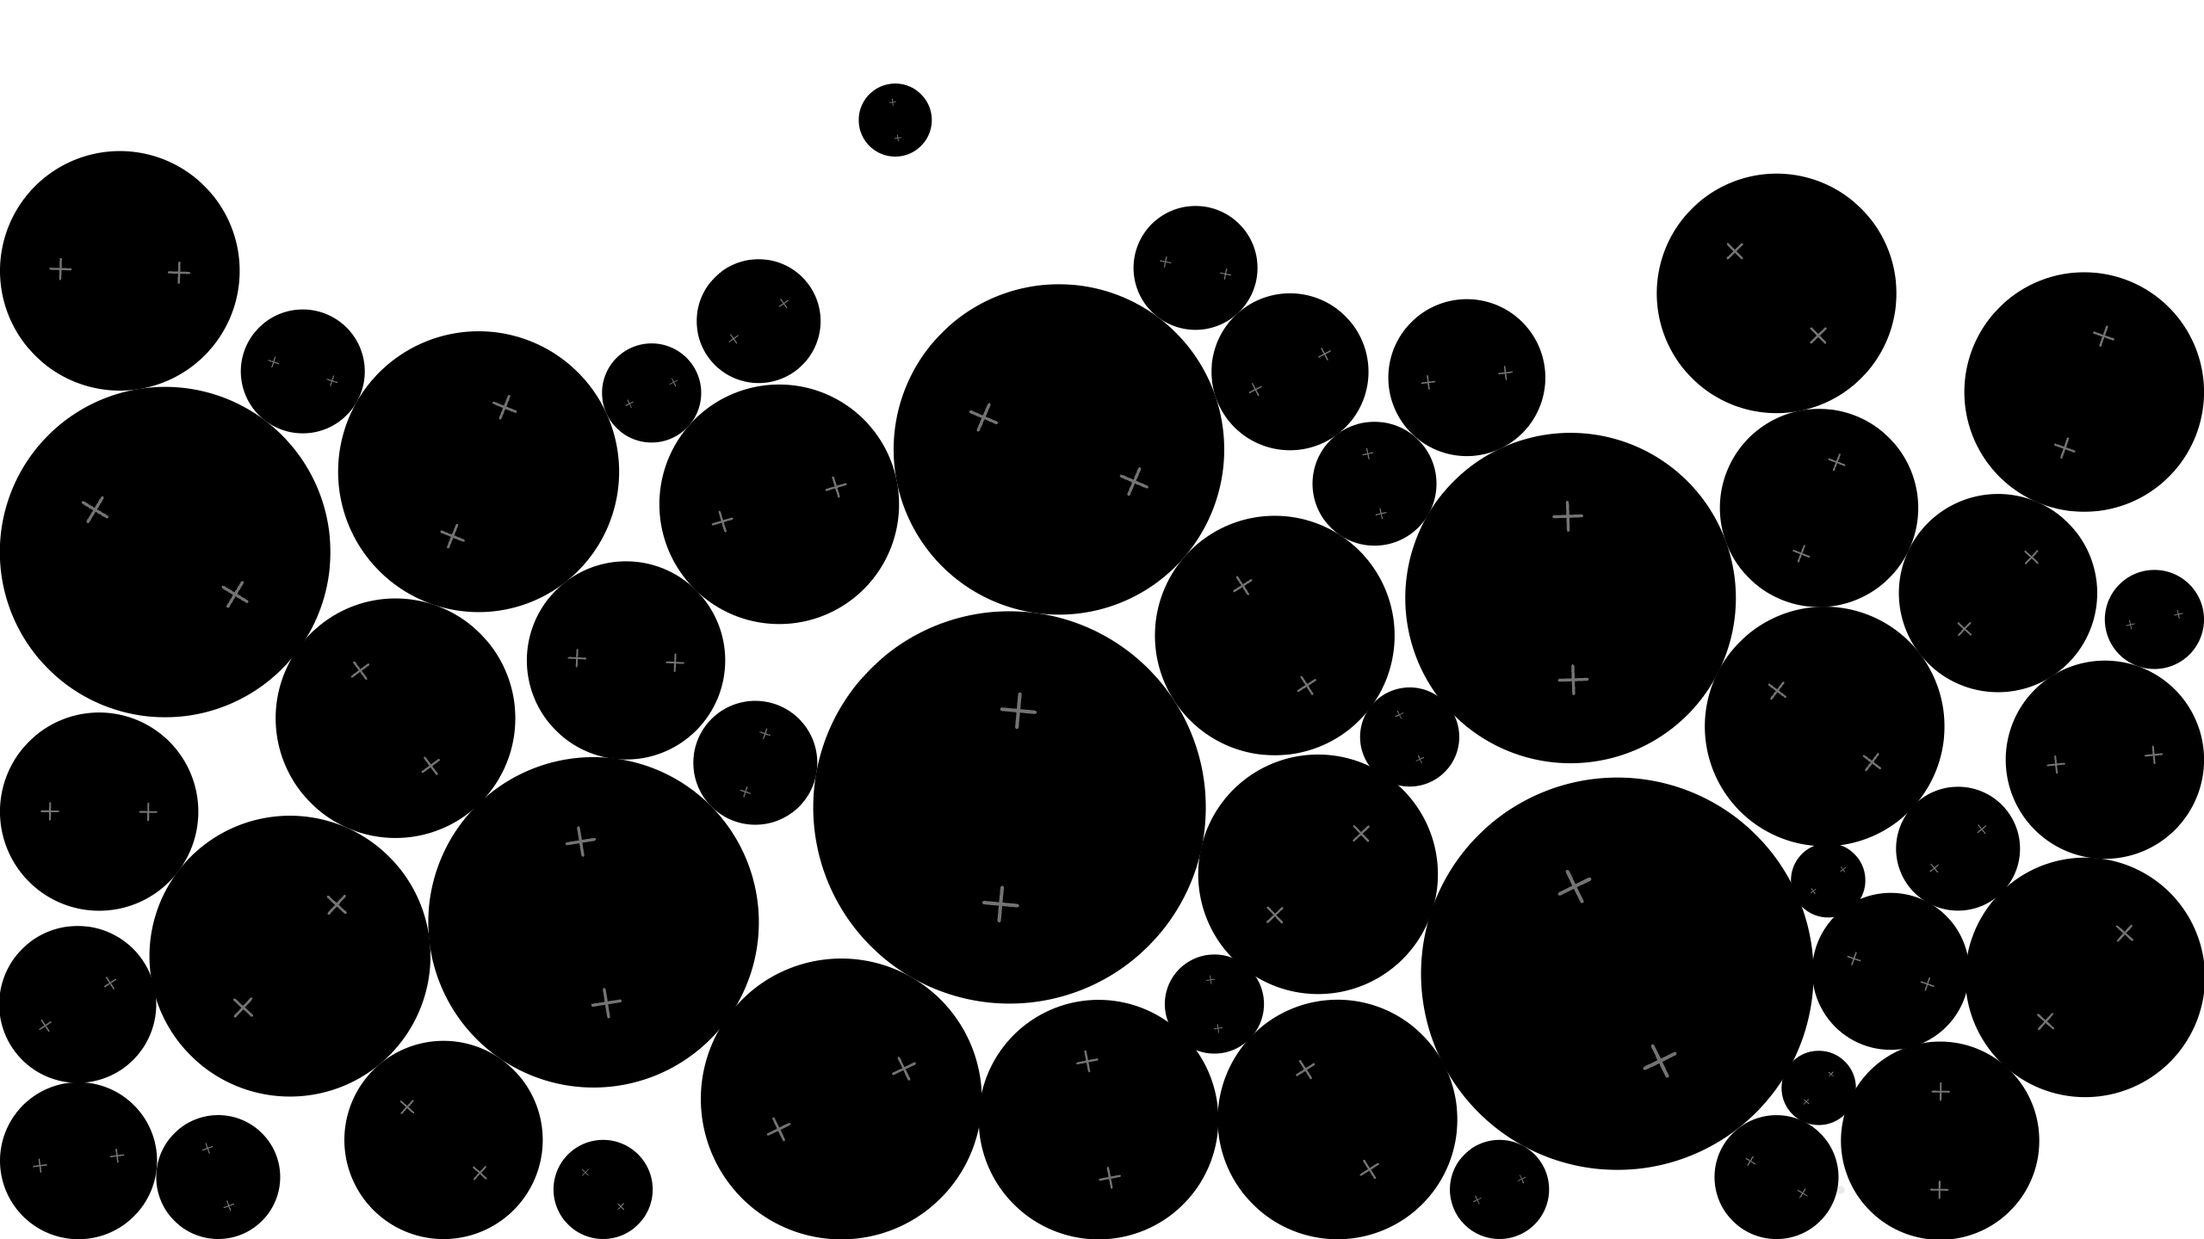
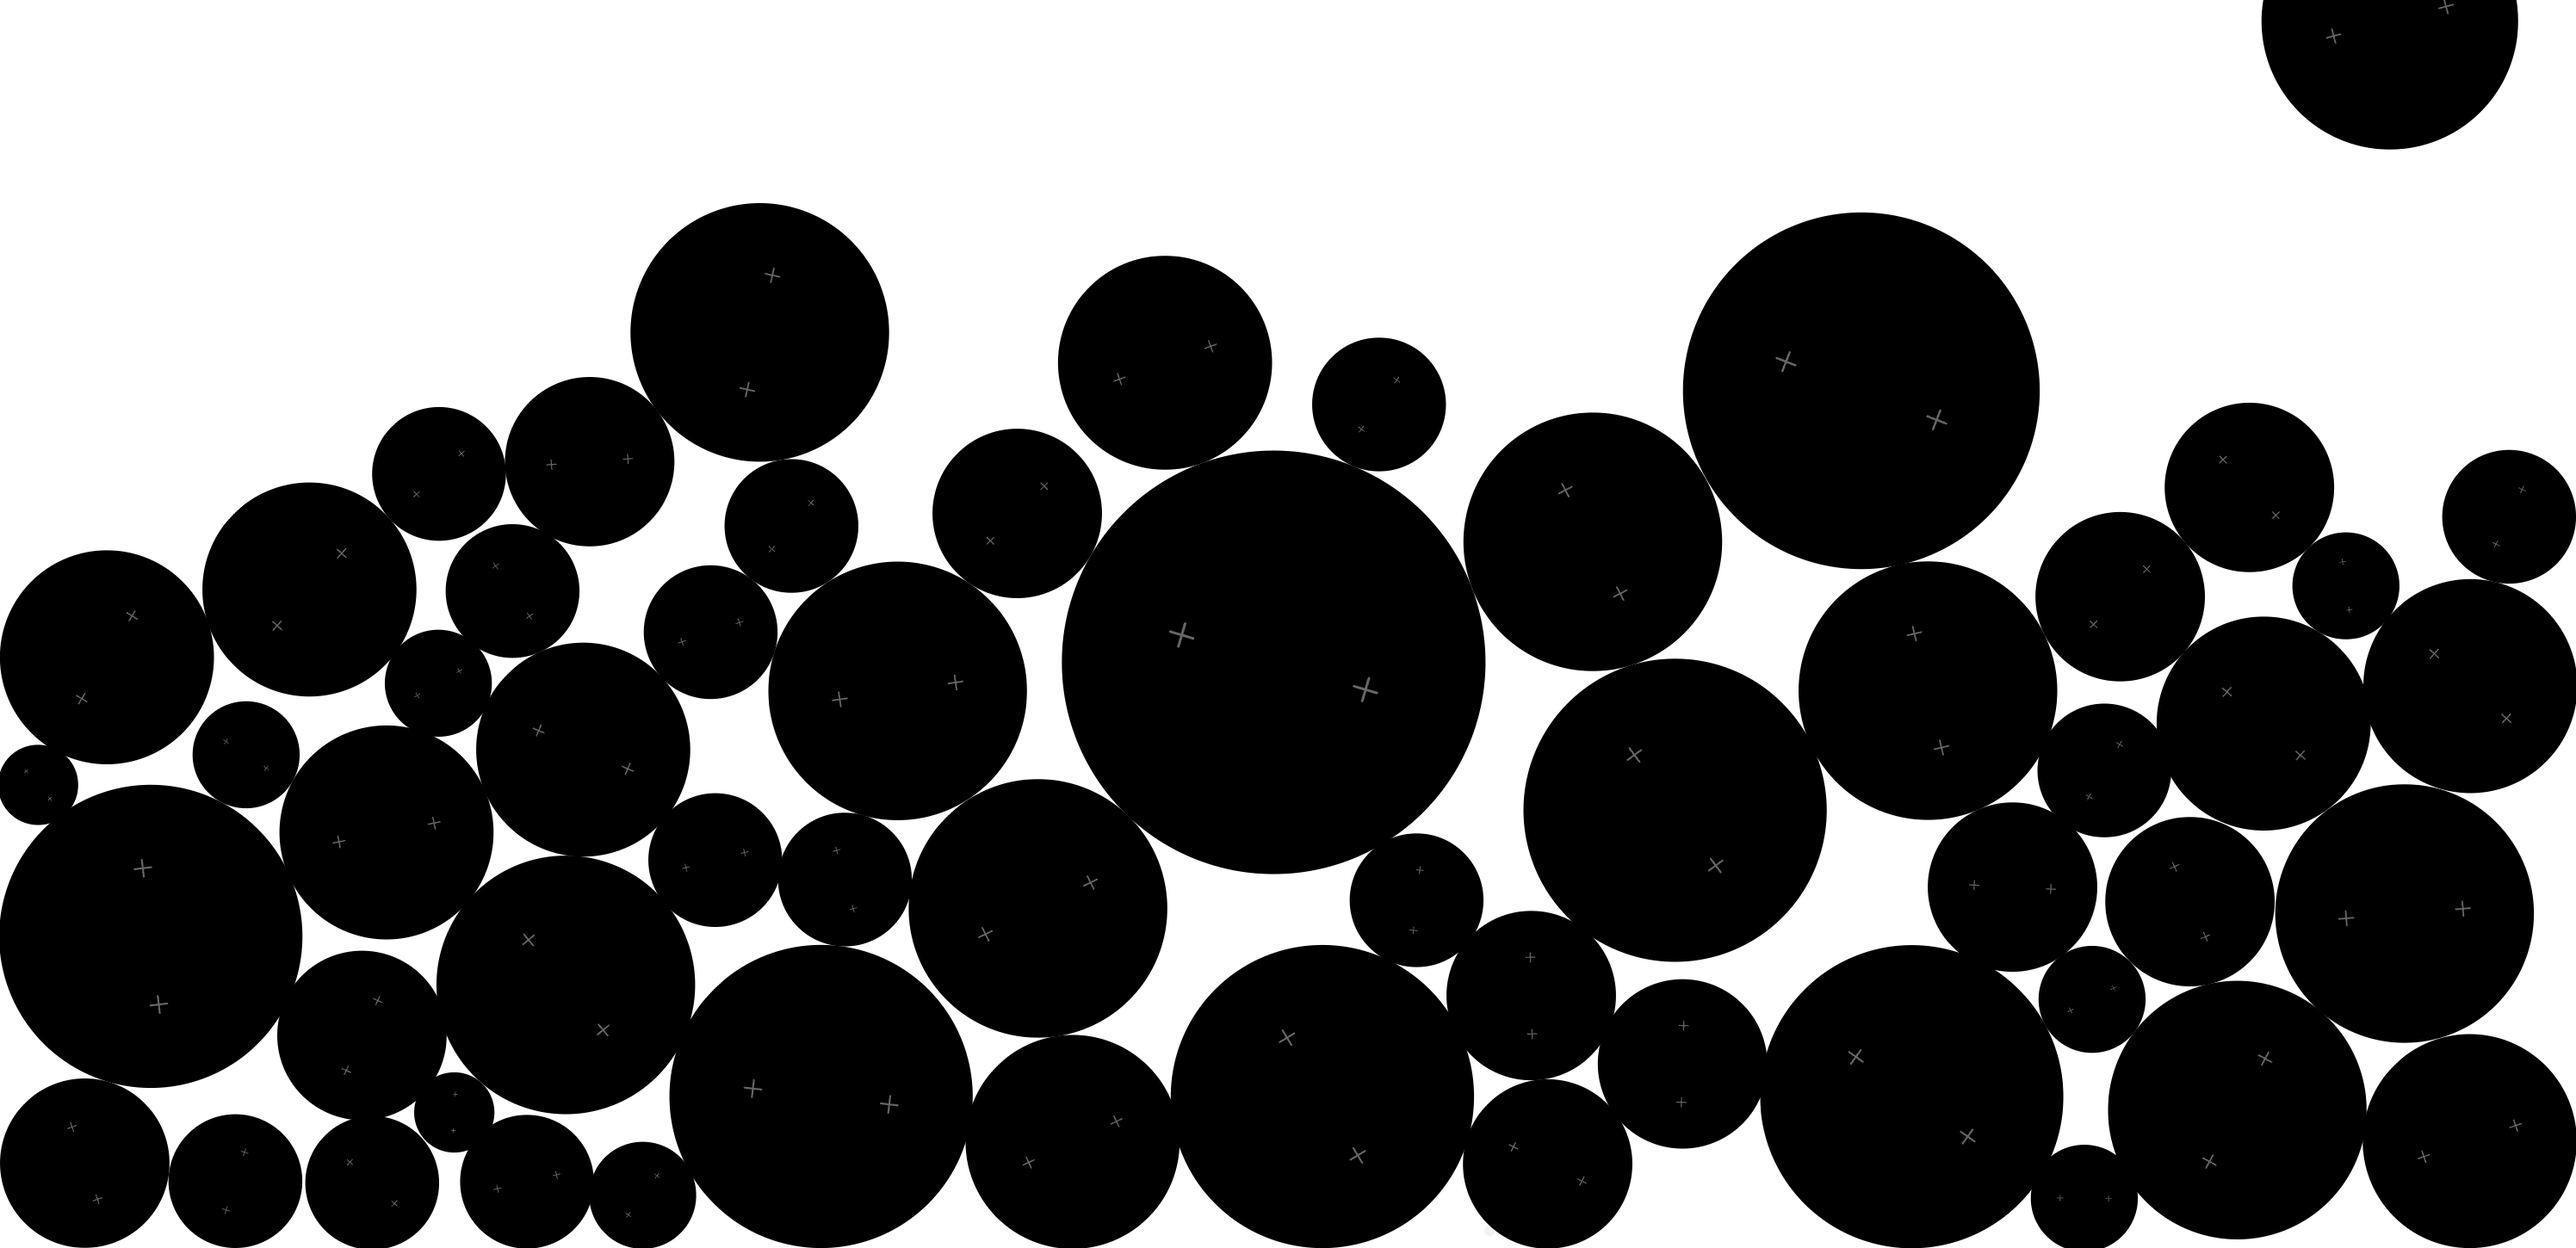
Add color palettes, removal sound effect, and smaller crosses
- 10 curated color palettes (Mono, Tokyo, Forest, Sunset, Ocean, Earth,
  Berry, Charcoal, Bauhaus, Neon) with coordinated bg/circle/cross colors
- Palette selector UI at bottom of screen
- Web Audio API sine ping on circle removal (pitch varies by size)
- Even smaller cross marks for refined aesthetic
- Canvas renders with palette background color (solid screenshots)
- Updated README with new features and screenshot

diff --git a/app.js b/app.js
@@ -1,5 +1,5 @@
 // Jampack - yugop tribute
-// 2D physics with circles, dual cross rotation indicators, drag & drop, shrink-remove
+// 2D physics with circles, color schemes, sound, drag & drop, shrink-remove
 
 const canvas = document.getElementById('c');
 const ctx = canvas.getContext('2d');
@@ -28,6 +28,96 @@ function updateMaxCircles() {
 resize();
 window.addEventListener('resize', resize);
 
+// --- Color palettes ---
+const PALETTES = [
+  { name: 'Mono',       bg: '#ffffff', colors: ['#000000'],                                                  cross: 'rgba(255,255,255,0.4)' },
+  { name: 'Tokyo',      bg: '#f5f0eb', colors: ['#1a1a2e', '#16213e', '#0f3460', '#533483', '#e94560'],      cross: 'rgba(255,255,255,0.35)' },
+  { name: 'Forest',     bg: '#f7f7f2', colors: ['#1b4332', '#2d6a4f', '#40916c', '#52b788', '#74c69d'],      cross: 'rgba(255,255,255,0.35)' },
+  { name: 'Sunset',     bg: '#fff8f0', colors: ['#d62828', '#f77f00', '#fcbf49', '#003049', '#264653'],      cross: 'rgba(255,255,255,0.4)' },
+  { name: 'Ocean',      bg: '#f0f4f8', colors: ['#023e8a', '#0077b6', '#0096c7', '#00b4d8', '#48cae4'],      cross: 'rgba(255,255,255,0.35)' },
+  { name: 'Earth',      bg: '#faf6f1', colors: ['#582f0e', '#7f4f24', '#936639', '#a68a64', '#b6ad90'],      cross: 'rgba(255,255,255,0.35)' },
+  { name: 'Berry',      bg: '#fdf2f8', colors: ['#4a0e4e', '#812b91', '#c74bab', '#e879a8', '#f5a3c7'],      cross: 'rgba(255,255,255,0.35)' },
+  { name: 'Charcoal',   bg: '#f8f9fa', colors: ['#212529', '#343a40', '#495057', '#6c757d', '#adb5bd'],      cross: 'rgba(255,255,255,0.4)' },
+  { name: 'Bauhaus',    bg: '#f5f1eb', colors: ['#d32f2f', '#1565c0', '#fbc02d', '#212121', '#e0e0e0'],      cross: 'rgba(255,255,255,0.4)' },
+  { name: 'Neon',       bg: '#0a0a0a', colors: ['#ff006e', '#fb5607', '#ffbe0b', '#8338ec', '#3a86ff'],      cross: 'rgba(0,0,0,0.4)' },
+];
+
+let currentPalette = 0;
+
+function getPalette() {
+  return PALETTES[currentPalette];
+}
+
+function randomColor() {
+  const p = getPalette();
+  return p.colors[Math.floor(Math.random() * p.colors.length)];
+}
+
+// --- Palette selector UI ---
+const selectorEl = document.getElementById('palette-selector');
+
+function buildPaletteUI() {
+  selectorEl.innerHTML = '';
+  PALETTES.forEach((p, i) => {
+    const btn = document.createElement('button');
+    btn.className = 'palette-btn' + (i === currentPalette ? ' active' : '');
+    btn.title = p.name;
+    // show color dots
+    p.colors.slice(0, 5).forEach(c => {
+      const dot = document.createElement('span');
+      dot.className = 'dot';
+      dot.style.background = c;
+      btn.appendChild(dot);
+    });
+    btn.addEventListener('click', () => {
+      currentPalette = i;
+      document.body.style.background = p.bg;
+      // recolor existing circles
+      for (const c of circles) {
+        c.color = randomColor();
+      }
+      buildPaletteUI();
+    });
+    selectorEl.appendChild(btn);
+  });
+}
+buildPaletteUI();
+document.body.style.background = getPalette().bg;
+
+// --- Audio: removal ping ---
+let audioCtx = null;
+
+function initAudio() {
+  if (audioCtx) return;
+  audioCtx = new (window.AudioContext || window.webkitAudioContext)();
+}
+
+function playRemoveSound(radius) {
+  if (!audioCtx) return;
+  // clean short ping, pitch varies with circle size
+  const now = audioCtx.currentTime;
+  const baseFreq = 1800 + (1 - radius / 120) * 1200; // higher register
+
+  const osc = audioCtx.createOscillator();
+  const gain = audioCtx.createGain();
+
+  osc.type = 'sine';
+  osc.frequency.setValueAtTime(baseFreq, now);
+  osc.frequency.exponentialRampToValueAtTime(baseFreq * 0.7, now + 0.12);
+
+  gain.gain.setValueAtTime(0.1, now);
+  gain.gain.exponentialRampToValueAtTime(0.001, now + 0.15);
+
+  osc.connect(gain);
+  gain.connect(audioCtx.destination);
+
+  osc.start(now);
+  osc.stop(now + 0.2);
+}
+
+// init audio on first interaction
+canvas.addEventListener('pointerdown', () => { initAudio(); }, { once: true });
+
 // --- Physics constants ---
 const GRAVITY = 900;
 const BOUNCE = 0.45;
@@ -42,12 +132,14 @@ class Circle {
     this.x = x;
     this.y = y;
     this.r = r;
+    this.color = randomColor();
     this.vx = (Math.random() - 0.5) * 30;
     this.vy = 0;
     this.angle = Math.random() * Math.PI * 2;
     this.angularVel = 0;
     this.mass = r * r;
     this.removing = false;
+    this.soundPlayed = false;
     this.dragging = false;
     this.scale = 0.01;
     this.opacity = 1;
@@ -55,6 +147,10 @@ class Circle {
 
   update(dt) {
     if (this.removing) {
+      if (!this.soundPlayed) {
+        this.soundPlayed = true;
+        playRemoveSound(this.r);
+      }
       this.scale += (0 - this.scale) * 5 * dt;
       this.opacity += (0 - this.opacity) * 5 * dt;
       return this.scale < 0.02;
@@ -114,15 +210,15 @@ class Circle {
     // circle body
     ctx.beginPath();
     ctx.arc(0, 0, r, 0, Math.PI * 2);
-    ctx.fillStyle = '#000';
+    ctx.fillStyle = this.color;
     ctx.fill();
 
     // two tiny crosses, symmetrically placed
     ctx.rotate(this.angle);
-    const crossSize = r * 0.06;
-    const offset = r * 0.35;
-    ctx.strokeStyle = 'rgba(255,255,255,0.45)';
-    ctx.lineWidth = Math.max(0.5, r * 0.018);
+    const crossSize = r * 0.04;
+    const offset = r * 0.32;
+    ctx.strokeStyle = getPalette().cross;
+    ctx.lineWidth = Math.max(0.4, r * 0.012);
     ctx.lineCap = 'round';
 
     // cross 1 (upper-left)
@@ -154,7 +250,6 @@ class Circle {
 // --- Circle-circle collision ---
 function resolveCollision(a, b) {
   if (a.dragging || b.dragging) {
-    // dragged circle pushes others but isn't pushed back
     const dx = b.x - a.x;
     const dy = b.y - a.y;
     const dist = Math.sqrt(dx * dx + dy * dy);
@@ -170,7 +265,6 @@ function resolveCollision(a, b) {
       if (a.dragging) {
         b.x += nx * overlap;
         b.y += ny * overlap;
-        // give velocity based on drag movement
         b.vx += nx * overlap * 8;
         b.vy += ny * overlap * 8;
         b.angularVel += (nx * b.vy - ny * b.vx) * 0.003;
@@ -179,7 +273,7 @@ function resolveCollision(a, b) {
         a.y -= ny * overlap;
         a.vx -= nx * overlap * 8;
         a.vy -= ny * overlap * 8;
-        a.angularVel -= (nx * a.vy - ny * a.vx) * 0.01;
+        a.angularVel -= (nx * a.vy - ny * a.vx) * 0.003;
       }
     }
     return;
@@ -221,7 +315,7 @@ function resolveCollision(a, b) {
       const ty = nx;
       const dvt = dvx * tx + dvy * ty;
       a.angularVel += dvt * 0.002;
-      b.angularVel -= dvt * 0.004;
+      b.angularVel -= dvt * 0.002;
     }
   }
 }
@@ -271,10 +365,8 @@ let dragPrevX = 0;
 let dragPrevY = 0;
 let dragVelX = 0;
 let dragVelY = 0;
-let didDrag = false;
 
 function findCircleAt(px, py) {
-  // search from top (last drawn = visually on top)
   for (let i = circles.length - 1; i >= 0; i--) {
     if (!circles[i].removing && circles[i].containsPoint(px, py)) {
       return circles[i];
@@ -284,6 +376,7 @@ function findCircleAt(px, py) {
 }
 
 canvas.addEventListener('pointerdown', (e) => {
+  initAudio();
   const px = e.clientX;
   const py = e.clientY;
   const hit = findCircleAt(px, py);
@@ -297,10 +390,8 @@ canvas.addEventListener('pointerdown', (e) => {
     dragPrevY = py;
     dragVelX = 0;
     dragVelY = 0;
-    didDrag = false;
     canvas.setPointerCapture(e.pointerId);
   } else {
-    // tap empty space -> drop new circle
     const r = randomRadius();
     const c = new Circle(px, -r, r);
     circles.push(c);
@@ -325,18 +416,11 @@ canvas.addEventListener('pointermove', (e) => {
 
   dragTarget.x = px + dragOffsetX;
   dragTarget.y = py + dragOffsetY;
-
-  // rotation from drag movement
   dragTarget.angularVel = dragVelX * 0.008;
-
-  if (Math.abs(px - (dragTarget.x - dragOffsetX)) > 3 || Math.abs(py - (dragTarget.y - dragOffsetY)) > 3) {
-    didDrag = true;
-  }
 });
 
-canvas.addEventListener('pointerup', (e) => {
+canvas.addEventListener('pointerup', () => {
   if (!dragTarget) return;
-  // release with velocity
   dragTarget.vx = dragVelX;
   dragTarget.vy = dragVelY;
   dragTarget.dragging = false;
@@ -406,7 +490,9 @@ function tick() {
 }
 
 function render() {
-  ctx.clearRect(0, 0, W, H);
+  // fill with palette background (not clearRect, so canvas exports have bg)
+  ctx.fillStyle = getPalette().bg;
+  ctx.fillRect(0, 0, W, H);
   for (const c of circles) {
     c.draw(ctx);
   }
@@ -422,13 +508,10 @@ function draw() {
 // initial drop
 setTimeout(() => { dropCircle(); }, 100);
 
-// logic on setInterval (works in background tabs)
 setInterval(() => {
   tick();
   render();
 }, 16);
-// drawing on rAF (smooth when visible)
 requestAnimationFrame(draw);
 
-// expose for debugging
-window._state = () => ({ circles, MAX_CIRCLES, W, H });
+window._state = () => ({ circles, MAX_CIRCLES, W, H, currentPalette });

diff --git a/index.html b/index.html
@@ -5,13 +5,59 @@
 <meta name="viewport" content="width=device-width, initial-scale=1.0, user-scalable=no">
 <title>Jampack</title>
 <style>
-* { margin: 0; padding: 0; }
+* { margin: 0; padding: 0; box-sizing: border-box; }
 html, body { width: 100%; height: 100%; overflow: hidden; background: #fff; }
 canvas { display: block; width: 100%; height: 100%; touch-action: none; }
+
+#palette-selector {
+  position: fixed;
+  bottom: 16px;
+  left: 50%;
+  transform: translateX(-50%);
+  display: flex;
+  gap: 6px;
+  padding: 6px 10px;
+  background: rgba(255,255,255,0.85);
+  backdrop-filter: blur(8px);
+  -webkit-backdrop-filter: blur(8px);
+  border-radius: 20px;
+  box-shadow: 0 1px 8px rgba(0,0,0,0.1);
+  z-index: 10;
+  opacity: 0.5;
+  transition: opacity 0.3s;
+}
+#palette-selector:hover {
+  opacity: 1;
+}
+
+.palette-btn {
+  display: flex;
+  gap: 2px;
+  align-items: center;
+  padding: 4px 6px;
+  border: 1.5px solid transparent;
+  border-radius: 12px;
+  background: none;
+  cursor: pointer;
+  transition: border-color 0.2s, transform 0.15s;
+}
+.palette-btn:hover {
+  transform: scale(1.1);
+}
+.palette-btn.active {
+  border-color: #999;
+}
+.dot {
+  width: 8px;
+  height: 8px;
+  border-radius: 50%;
+  display: inline-block;
+}
 </style>
 </head>
 <body>
 <canvas id="c"></canvas>
+<div id="palette-selector"></div>
 <script src="app.js"></script>
 </body>
 </html>

diff --git a/README.md b/README.md
@@ -13,7 +13,8 @@ This project is a recreation of yugop's Jampack, a classic interactive piece tha
 - **Watch** -- circles auto-drop and pack together with gravity
 - **Click** empty space to drop a new circle
 - **Drag & drop** any circle to toss it around -- other circles react physically
-- When the circle count exceeds the limit, the oldest circle **shrinks inward** and disappears
+- **Color palettes** -- 10 curated palettes selectable from the bottom bar (Mono, Tokyo, Forest, Sunset, Ocean, Earth, Berry, Charcoal, Bauhaus, Neon)
+- When the circle count exceeds the limit, the oldest circle **shrinks inward** with a clean ping sound and disappears
 
 ## Technical Details
 
@@ -23,19 +24,21 @@ This project is a recreation of yugop's Jampack, a classic interactive piece tha
 - Fixed timestep simulation (1/60s) with 8 substeps per frame for stable stacking
 - Mass-proportional collision response with restitution and friction
 - Angular velocity derived from surface contact friction and tangential collision impulse
-- Two small symmetric cross marks per circle serve as rotation indicators
+- Two tiny symmetric cross marks per circle serve as rotation indicators
 - Exponential ease-out for grow-in and shrink-out animations
 - Dynamic `MAX_CIRCLES` calculated from viewport area to maintain ~2/3 fill density
 - Dual loop architecture: `setInterval` for physics (survives background tab throttling) + `requestAnimationFrame` for smooth rendering
 - Drag interaction with velocity transfer on release -- flings circles with momentum
+- 10 color palettes with coordinated circle / background / cross colors
+- Web Audio API synthesized removal sound (sine ping, pitch varies by circle size)
 - HiDPI / Retina canvas scaling via `devicePixelRatio`
 - Responsive -- adapts circle count and sizes to any window dimension
 
 ## Files
 
 ```
-index.html   -- entry point
-app.js       -- all physics, rendering, and interaction logic (~370 lines)
+index.html   -- entry point with palette selector UI
+app.js       -- all physics, rendering, audio, and interaction logic
 ```
 
 ## Run Locally
